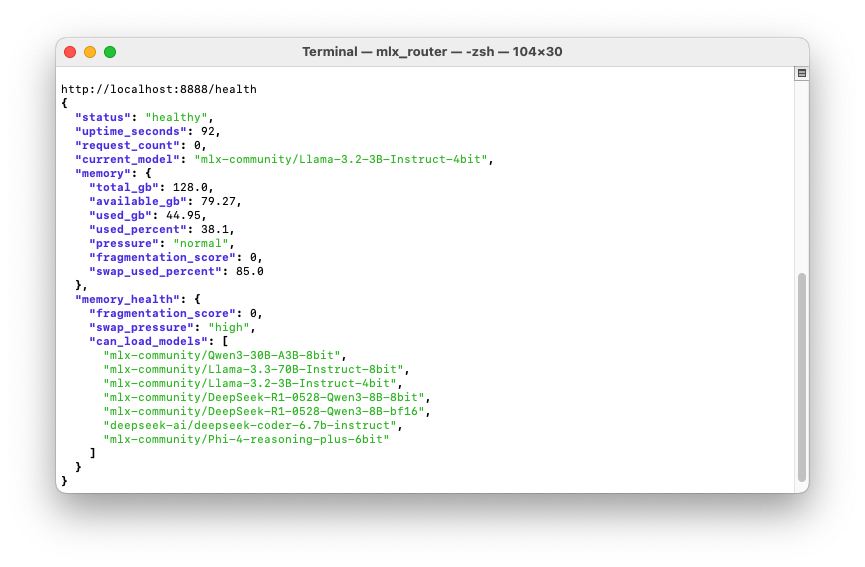
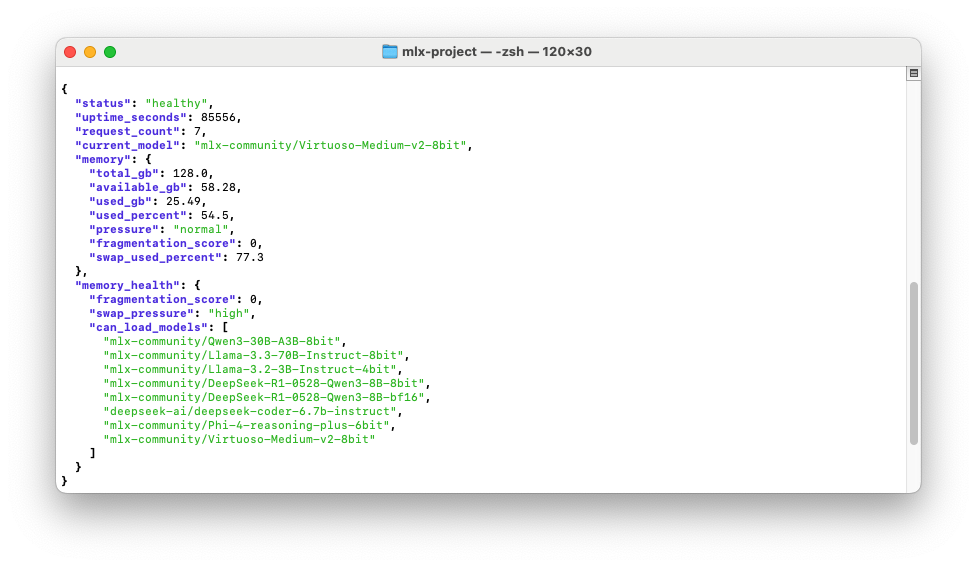
docs: update screenshots and help menu fix increments to v2.0.1

diff --git a/main.py b/main.py
@@ -20,7 +20,7 @@ from mlx_router.config.model_config import ModelConfig
 from mlx_router.api.app import app, set_model_manager
 
 # Version information
-VERSION = "2.0.0"
+VERSION = "2.0.1"
 RELEASE_DATE = "20250607"
 AUTHOR = "Henry Bravo - info@henrybravo.nl"
 
@@ -61,7 +61,41 @@ def print_banner():
     print(f"\033[1;32m{AUTHOR}\033[0m\n")
 
 def parse_args():
-    parser = argparse.ArgumentParser(description="MLX Model Router")
+    class BannerHelpFormatter(argparse.RawDescriptionHelpFormatter):
+        def __init__(self, prog, indent_increment=2, max_help_position=40, width=None):
+            # Get terminal width or use a reasonable default
+            if width is None:
+                try:
+                    import shutil
+                    width = min(shutil.get_terminal_size().columns, 120)
+                except:
+                    width = 100
+            super().__init__(prog, indent_increment, max_help_position, width)
+        
+        def format_help(self):
+            print_banner()
+            return super().format_help()
+        
+    parser = argparse.ArgumentParser(
+            description="""
+MLX Model Router - A powerful server for managing and serving multiple MLX models.
+This server provides a unified FastAPI interface for various MLX models, allowing hot-swapping
+between different models without restarting the server.
+            """,
+            formatter_class=BannerHelpFormatter,
+            epilog="""
+Examples:
+  # Start server with default settings
+  python main.py
+
+  # Start server on specific IP and port
+  python main.py --ip 127.0.0.1 -p 8080
+
+  # Start server with config file and specific port
+  python main.py --config config.json --port 8888
+            """
+    )
+
     parser.add_argument("-v", "--version", action="store_true", help="Display version and exit")
     parser.add_argument("--ip", default="0.0.0.0", help="IP address (default: 0.0.0.0)")
     parser.add_argument("--port", "-p", type=int, default=8800, help="Port (default: 8800)")

diff --git a/mlx_router/api/app.py b/mlx_router/api/app.py
@@ -18,7 +18,7 @@ from mlx_router.config.model_config import ModelConfig
 from mlx_router.core.resource_monitor import ResourceMonitor
 
 # Version information
-VERSION = "2.0.0"
+VERSION = "2.0.1"
 
 logger = logging.getLogger(__name__)
 

diff --git a/README.md b/README.md
@@ -1,7 +1,7 @@
 # mlx-project
 Useful scripts to ease the use of mlx
 
-## MLX Model Router v2.0.0
+## MLX Model Router v2
 
 A powerful and efficient server for managing and serving multiple MLX models through a unified API interface. Now powered by **FastAPI** for modern, high-performance API handling with automatic OpenAPI documentation.
 
@@ -37,7 +37,7 @@ You can use the helper tools in `helper_tools/` directory:
 - `mlx_lmstudio_linker.py` - Link models to LM Studio
 - `mlx_model_parameter_discovery_tool.py` - Auto-discover optimal parameters
 
-## Architecture v2.0.0
+## Architecture v2.0
 
 The project now features a clean modular architecture:
 
@@ -172,7 +172,7 @@ Example configuration structure:
 }
 ```
 
-## What's New in v2.0.0
+## What's New in v2.0
 
 - **FastAPI Integration** - Modern async API framework with automatic documentation
 - **Modular Architecture** - Clean separation into config/, core/, and api/ modules
